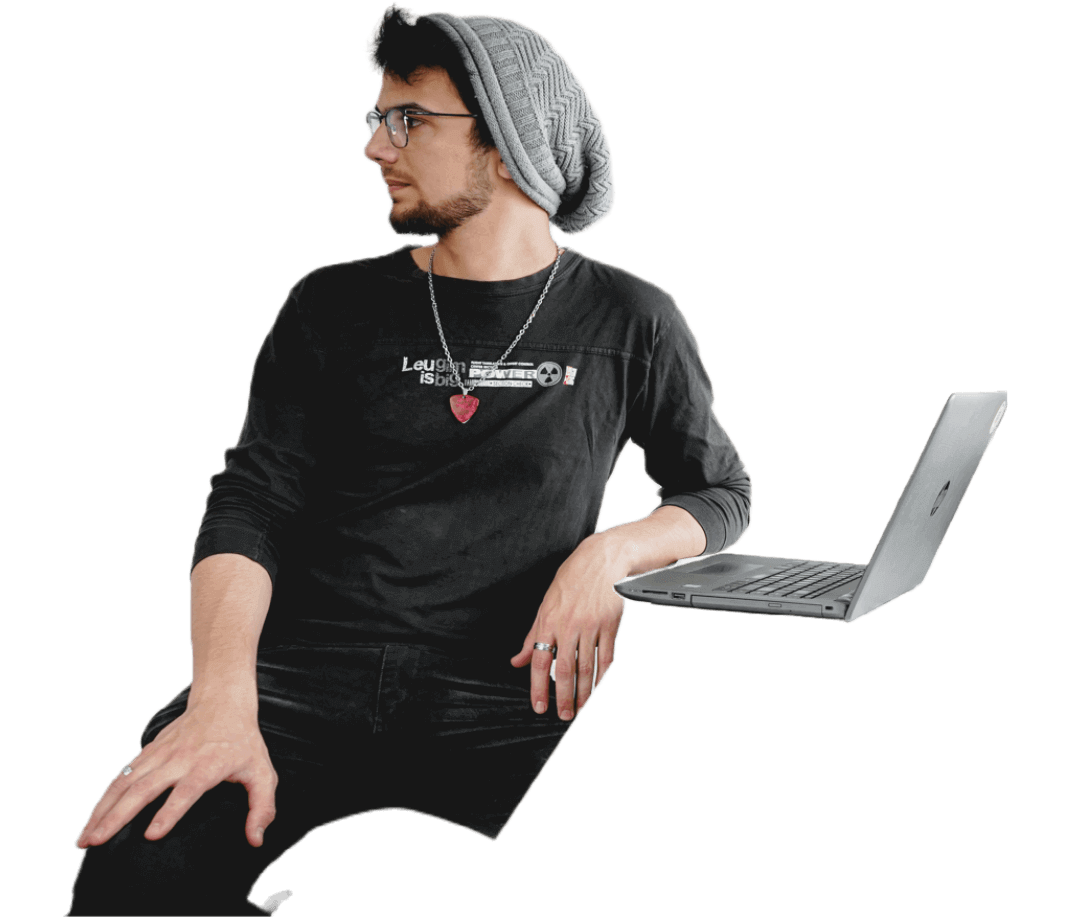
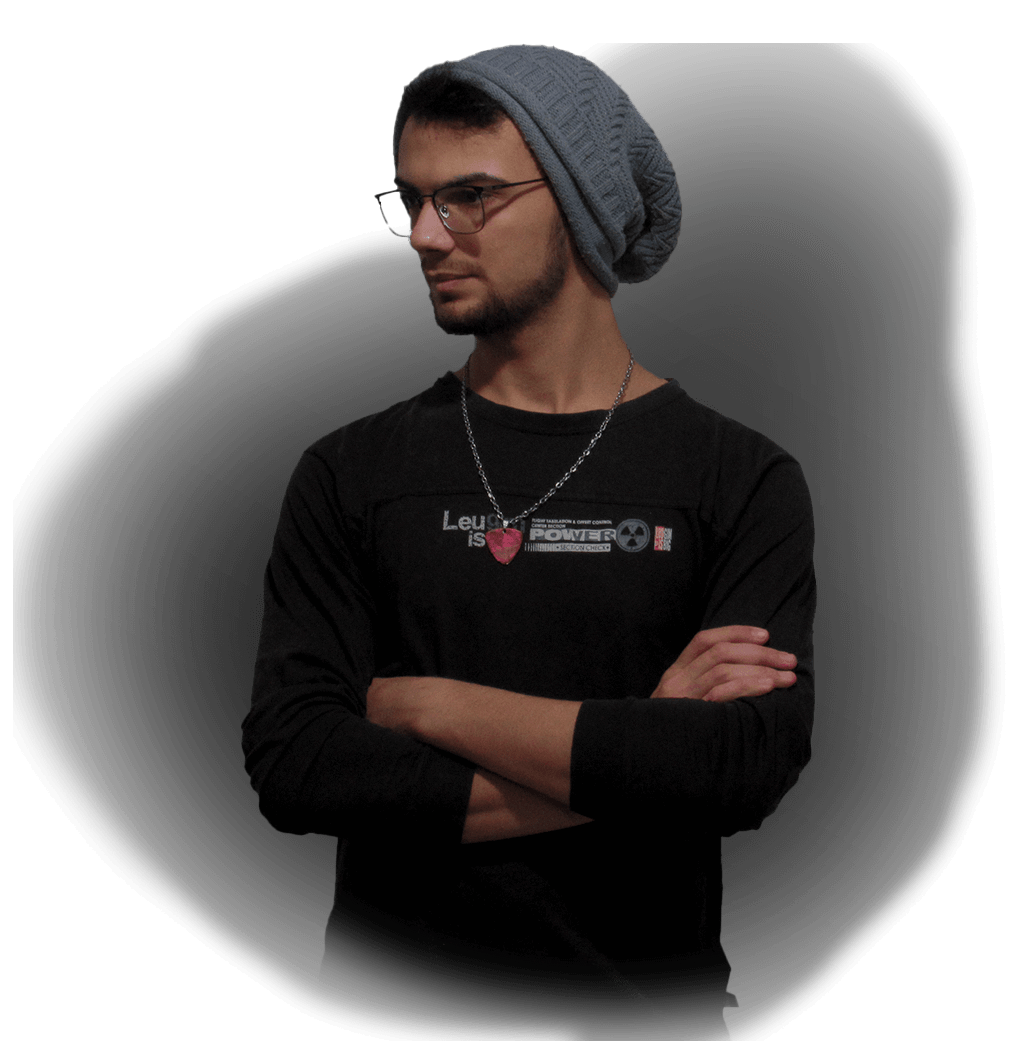
Update My Photo

diff --git a/src/styles/styles.module.scss b/src/styles/styles.module.scss
@@ -190,25 +190,25 @@
           height: 100%;
           object-fit: cover;
           filter: drop-shadow(10px 10px 20px rgb(0 0 0 / 50%));
-        
+          transform: scale(.8);
         }
-        &::after {
-          content: 'IMAGE IN PROCESS';
-          position: absolute;
-          top: 40%;
-          left: -10%;
-          text-align: center;
-          font-size: 6rem;
-          font-weight: bold;
-          width: 100%;
-          font-family: Ubuntu;
-          transform: rotate(-35deg);
-          color: rgba(0, 0, 0, 0.8);
-          background-color: #ffe600b2;
-          box-shadow: 0 0 30px black;
-          padding: 10px;
-          border-radius: 8px;
-        }
+        // &::after {
+        //   content: 'IMAGE IN PROCESS';
+        //   position: absolute;
+        //   top: 40%;
+        //   left: -10%;
+        //   text-align: center;
+        //   font-size: 6rem;
+        //   font-weight: bold;
+        //   width: 100%;
+        //   font-family: Ubuntu;
+        //   transform: rotate(-35deg);
+        //   color: rgba(0, 0, 0, 0.8);
+        //   background-color: #ffe600b2;
+        //   box-shadow: 0 0 30px black;
+        //   padding: 10px;
+        //   border-radius: 8px;
+        // }
       }
     }
   }

diff --git a/src/pages/index.tsx b/src/pages/index.tsx
@@ -21,7 +21,6 @@ import Style from '@styles/styles.module.scss'
 // Images
 import profilePic from '@public/images/me.png'
 import vicode from '@public/images/icons/vicode.png'
-import bird1 from '@public/images/bird1.png'
 import star from '@public/images/star.png'
 import background from '@public/images/background.png'
 
